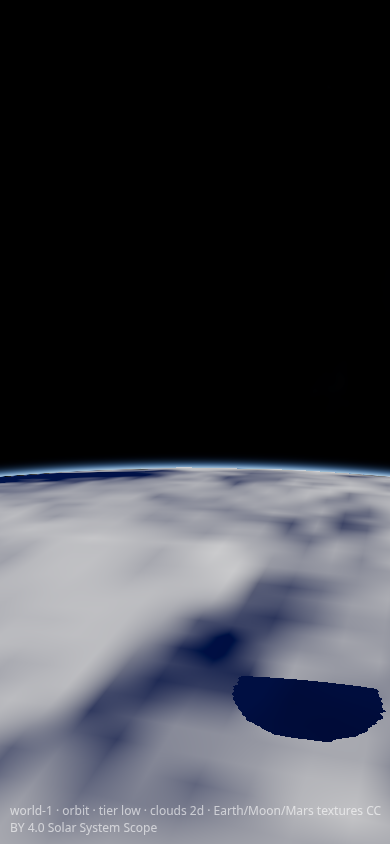
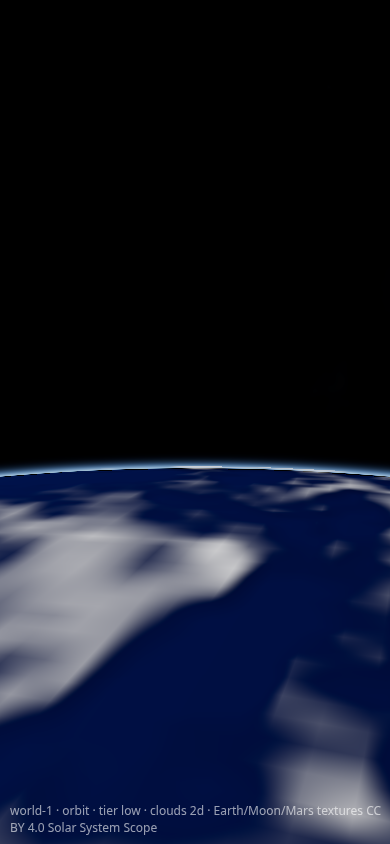
f5 world-1: phone 2D cloud shell above ground cap, softer coverage

diff --git a/gfx/world/clouds.js b/gfx/world/clouds.js
@@ -84,13 +84,13 @@ export function flatCloudMaterial(weatherTex, U = cloudUniforms()) {
   const sunUp = dot(normalWorld, U.sunDir), shade = smoothstep(-0.15, 0.35, sunUp);
   const thick = saturate(cov.mul(1.3)); // thicker -> greyer base when lit from low sun
   const lit = mix(vec3(1.0, 0.55, 0.32), vec3(0.98, 0.98, 1.0), smoothstep(0.0, 0.3, sunUp)).mul(mix(float(1), float(0.72), thick.mul(float(1).sub(shade))));
-  m.colorNode = vec4(lit.mul(shade.mul(0.95).add(0.03)), cov.mul(0.95));
+  m.colorNode = vec4(lit.mul(shade.mul(0.95).add(0.03)), smoothstep(0.3, 0.95, cov).mul(0.95));
   m.userData.U = U; return m;
 }
 // Build the cloud object. Returns { mesh, U, setSun(dirVec3), update(dt, camAltKm) }.
 export function createClouds({ weatherTex, tier = 'high', R = 6371, U = cloudUniforms({ R }) } = {}) {
   const T = WORLD_TIERS[tier];
-  const geo = T.volumetric ? new THREE.SphereGeometry(R + U.top.value, 96, 48) : new THREE.SphereGeometry(R + 3.0, 128, 64);
+  const geo = T.volumetric ? new THREE.SphereGeometry(R + U.top.value, 96, 48) : new THREE.SphereGeometry(R + 6.0, 192, 96) /* facet sag < 1 km so the shell never dips under the ground cap */;
   const mat = T.volumetric ? volumetricCloudMaterial(weatherTex, tier, U) : flatCloudMaterial(weatherTex, U);
   const mesh = new THREE.Mesh(geo, mat); mesh.renderOrder = 5; mesh.frustumCulled = false; mesh.name = 'clouds-' + (T.volumetric ? 'volumetric' : '2d');
   return { mesh, U, tier, setSun(v) { U.sunDir.value.copy(v).normalize(); }, // depth-tested against opaque scene: draw the shell's far side when the camera is inside the layer, near side from above
